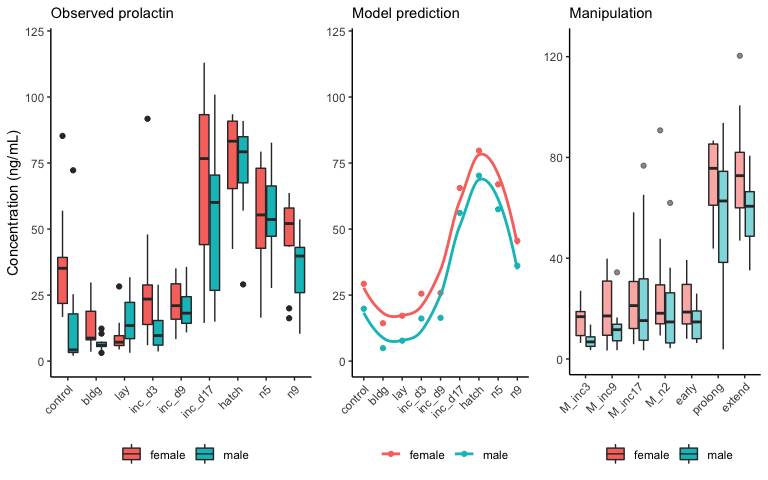
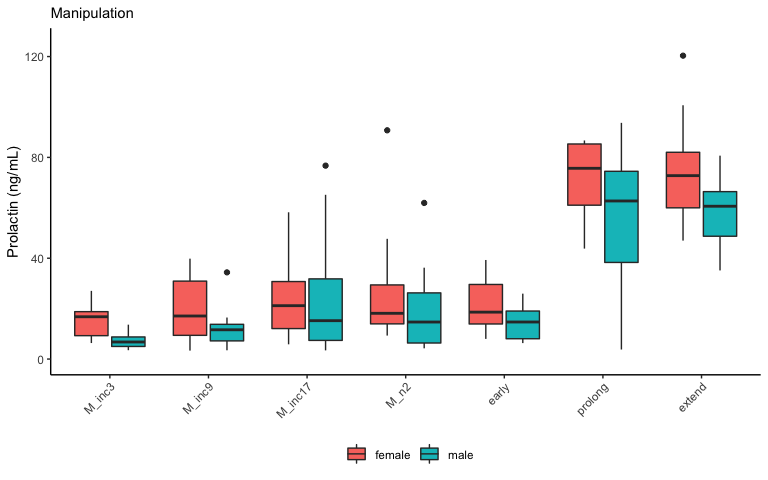
new hormone figs

diff --git a/analysis/07_hormones.md b/analysis/07_hormones.md
@@ -1,13 +1,13 @@
     library(tidyverse)
 
-    ## ── Attaching packages ────────────────────────────── tidyverse 1.2.1 ──
+    ## ── Attaching packages ──────────────────────────────────────────────────────────────── tidyverse 1.2.1 ──
 
     ## ✔ ggplot2 3.2.1     ✔ purrr   0.3.2
     ## ✔ tibble  2.1.3     ✔ dplyr   0.8.1
     ## ✔ tidyr   0.8.3     ✔ stringr 1.4.0
     ## ✔ readr   1.3.1     ✔ forcats 0.4.0
 
-    ## ── Conflicts ───────────────────────────────── tidyverse_conflicts() ──
+    ## ── Conflicts ─────────────────────────────────────────────────────────────────── tidyverse_conflicts() ──
     ## ✖ dplyr::filter() masks stats::filter()
     ## ✖ dplyr::lag()    masks stats::lag()
 
@@ -208,10 +208,12 @@
       theme(axis.text.x = element_text(angle = 45, hjust = 1),
             legend.position = "bottom",
             legend.title = element_blank()) +
-      labs(subtitle = "Observed prolactin",
-           y = "Concentration (ng/mL)", x = NULL) +
+      labs(subtitle = "Characterization", y = "Prolactin (ng/mL)", x = NULL) +
       #geom_text(data = df, aes(x,y, label = text), color = "darkgrey") +
           ylim(0,120) 
+    a
+
+![](../figures/hormones/prolactin-char-1.png)
 
     b <- ggplot(grid, aes(x = treatment, y = pred, color = sex)) +
       geom_point() + 
@@ -225,7 +227,7 @@
 
     plot_grid(a,b)
 
-![](../figures/hormones/prolactin-char-1.png)
+![](../figures/hormones/prolactin-char-2.png)
 
     aov1 <- aov(data = characterization, `Prolactin ng/mL` ~ treatment + sex)
     aov1
@@ -308,18 +310,20 @@
 
     e <- manipulation %>%
       ggplot( aes(x = treatment, y = `Prolactin ng/mL`)) +
-        geom_boxplot(aes(fill = sex, alpha = 0.5)) + 
+        geom_boxplot(aes(fill = sex)) + 
         theme(axis.text.x = element_text(angle = 45, hjust = 1),
               legend.position = "bottom",
               legend.title = element_blank()) +
         ylim(0,125) +
         labs(subtitle = "Manipulation",
-           y = NULL, x = NULL) + 
-      scale_alpha(guide = 'none')
-
-    plot_grid(a,b,e, nrow = 1, rel_widths = c(1.1,.75,.8)) 
+           y = "Prolactin (ng/mL)", x = NULL)
+    e
 
 ![](../figures/hormones/prolactin-manip-1.png)
+
+    plot_grid(a,e, nrow = 1) 
+
+![](../figures/hormones/prolactin-manip-2.png)
 
     f <-  prolactin %>%
       filter(treatment %in% c("control", "bldg", "inc_d3", "M_inc3",
@@ -355,7 +359,7 @@
 
     plot_grid(f,g, nrow=2, rel_widths = c(.625,.375))
 
-![](../figures/hormones/prolactin-manip-2.png)
+![](../figures/hormones/prolactin-manip-3.png)
 
     ggplot(grid, aes(x = treatment, y = pred, color = sex)) +
       geom_point() + 
